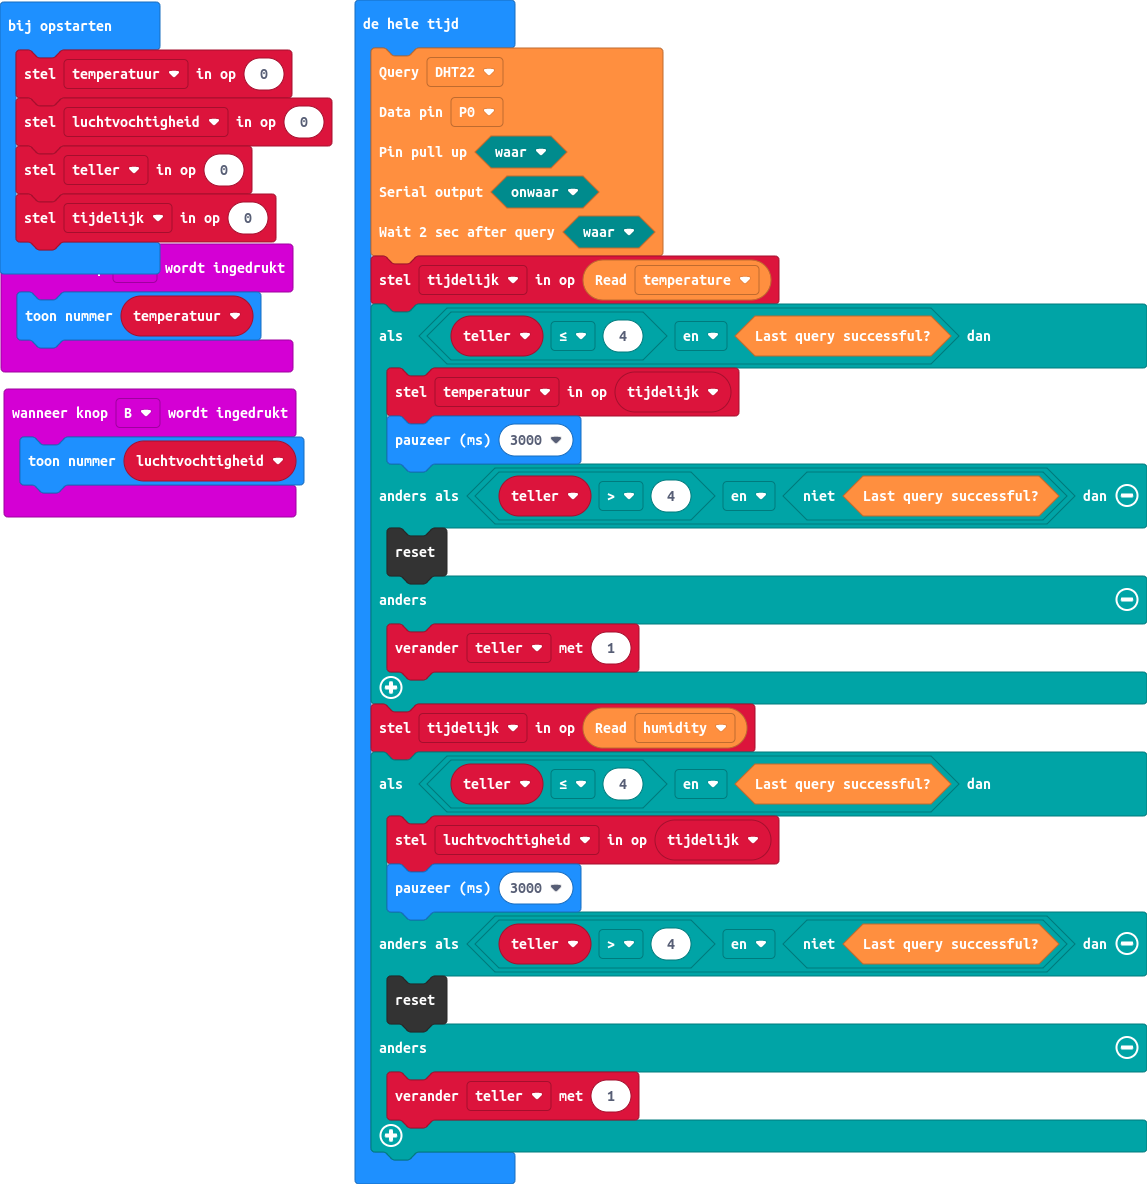
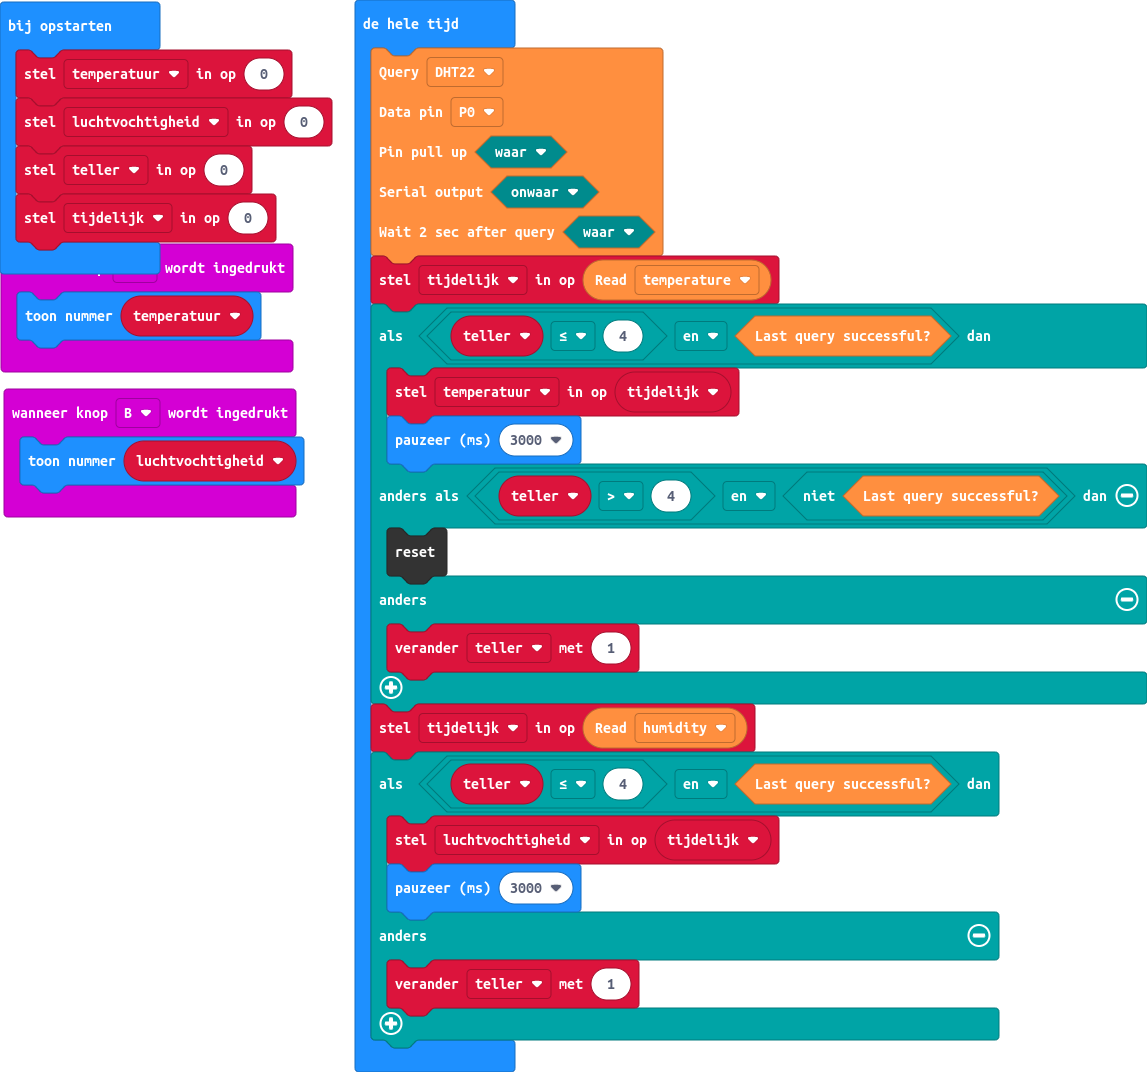
vereenvoudigen code

diff --git a/main.ts b/main.ts
@@ -31,8 +31,6 @@ basic.forever(function () {
     if (teller <= 4 && dht11_dht22.readDataSuccessful()) {
         luchtvochtigheid = tijdelijk
         basic.pause(3000)
-    } else if (teller > 4 && !(dht11_dht22.readDataSuccessful())) {
-        control.reset()
     } else {
         teller += 1
     }
